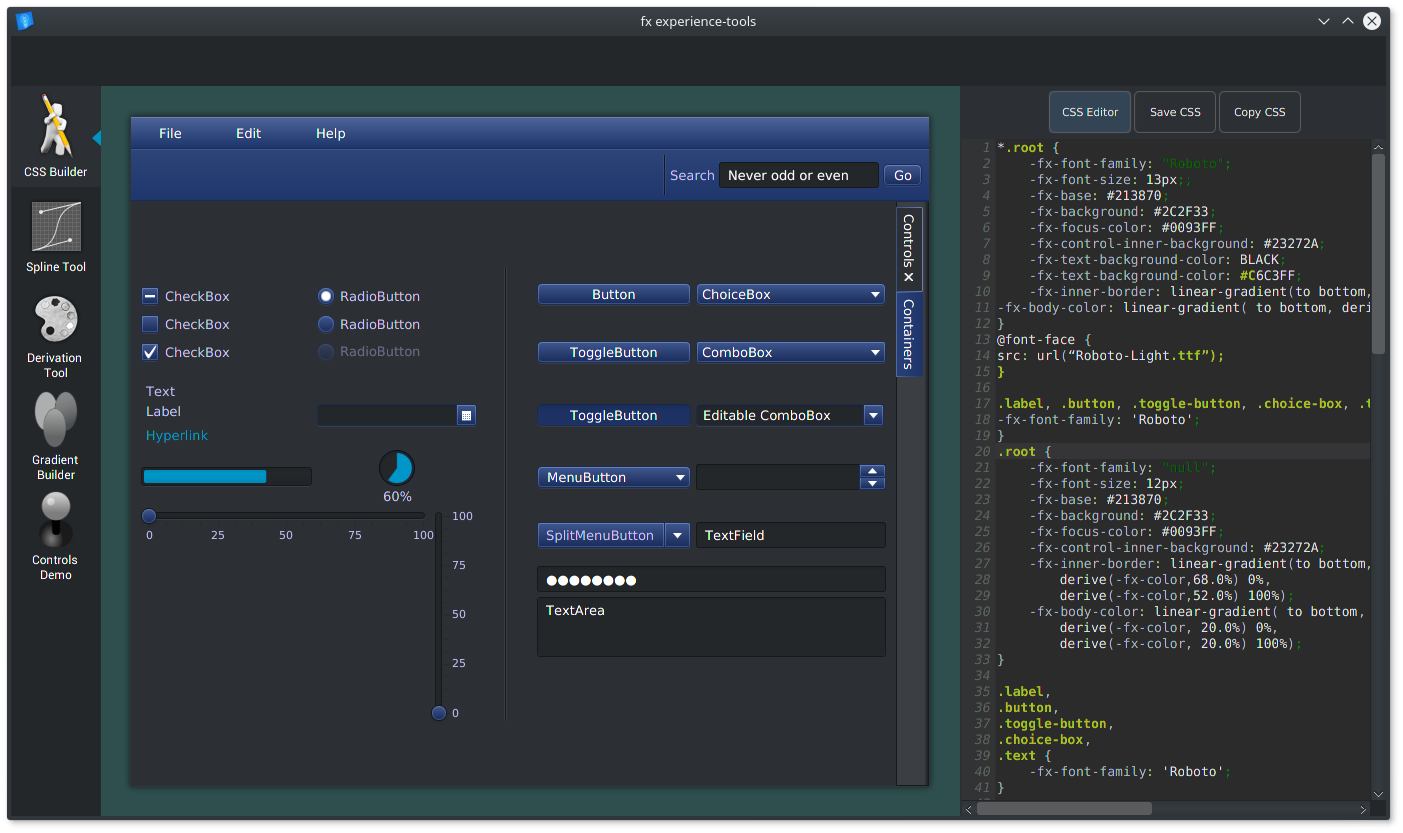
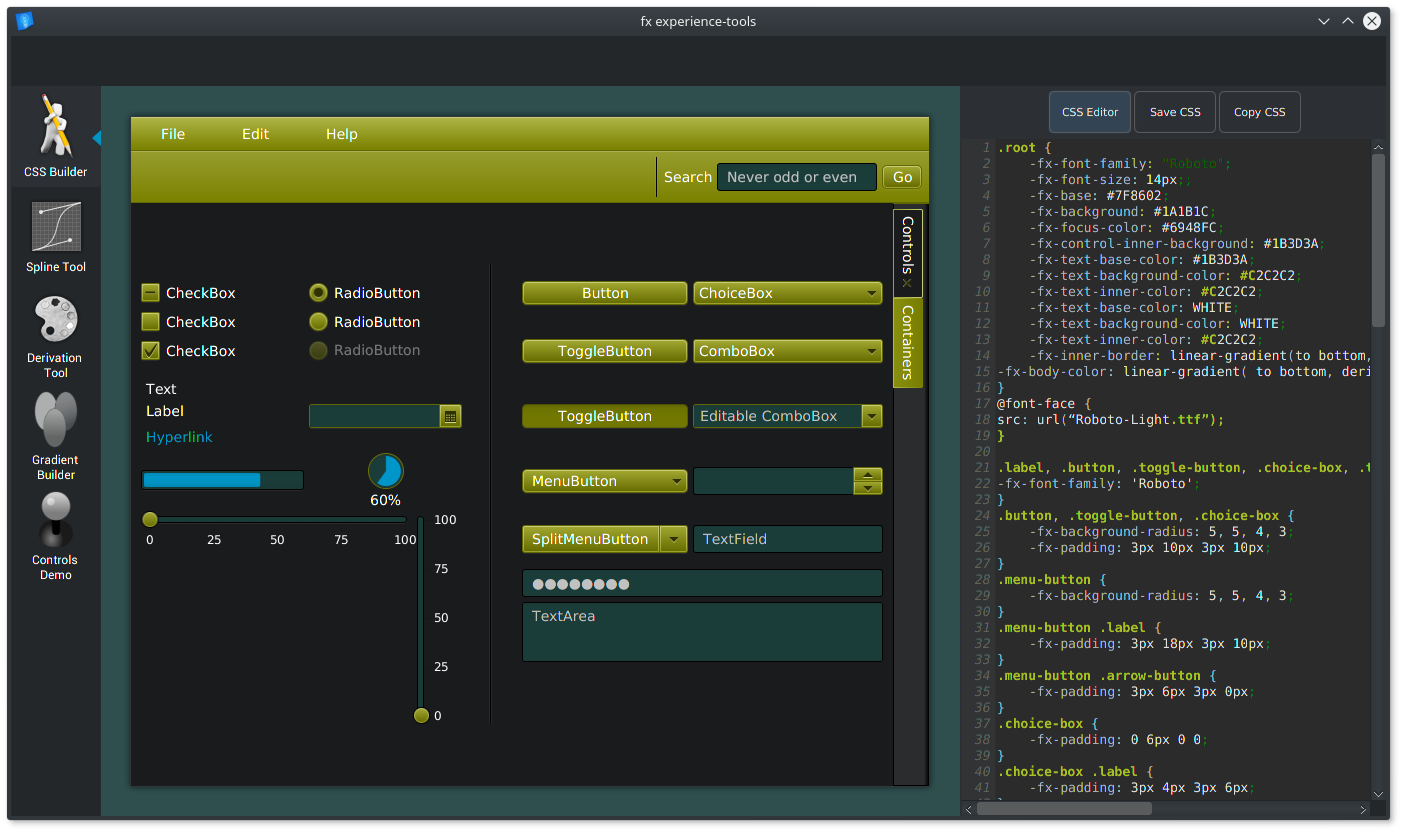
update editor text

diff --git a/FXExperienceTools/src/main/java/com/fxexperience/tools/controller/StyleController.java b/FXExperienceTools/src/main/java/com/fxexperience/tools/controller/StyleController.java
@@ -91,8 +91,6 @@ public class StyleController extends VBox {
     private final ColorPopupEditor fieldBackgroundPicker = new ColorPopupEditor(Mode.SINGLE, Color.web("#23272a"));
     private final ColorPopupEditor fieldTextPicker = new ColorPopupEditor(Mode.SINGLE, Color.web("#000000"));
 
-    private String[] styleCode = CSSBaseStyle.getCodeArray();
-
     public StyleController() {
         initialize();
     }
@@ -285,7 +283,7 @@ public class StyleController extends VBox {
 
             String fontSize = fontSizeBox.getValue() + fontRadioGroup.getSelectedToggle().getUserData();
 
-            sbRoot.append("*.root {\n");
+            sbRoot.append(".root {\n");
             //cssBuffer.append(StringUtil.padWithSpaces("-fx-font-family: " + fontSizeSlider.getValue() + "px " + "\"" + fontChoiceBox.getValue() + "\";", true, 4));
             sbRoot.append(StringUtil.padWithSpaces("-fx-font-family: \"" + fontChoice.getValue() + "\";", true, 4));
             sbRoot.append(StringUtil.padWithSpaces("-fx-font-size: " + fontSize+ ";", true, 4));
@@ -507,7 +505,7 @@ public class StyleController extends VBox {
     }
 
     public String getCodeString() {
-     return sbRoot.toString();
+     return sbRoot.toString() + sbBody.toString() ;
     }
 
     private void setCodeAreaText() {

diff --git a/FXExperienceTools/src/main/java/com/fxexperience/tools/ui/CSSCodeArea.java b/FXExperienceTools/src/main/java/com/fxexperience/tools/ui/CSSCodeArea.java
@@ -14,6 +14,6 @@ public class CSSCodeArea extends CodeArea {
         richChanges()
                 .filter(ch -> !ch.getInserted().equals(ch.getRemoved())) // XXX
                 .subscribe(change -> this.setStyleSpans(0, CSSHighlight.computeHighlighting(this.getText())));
-        replaceText(0, 0, CSSBaseStyle.getCodeString());
+        //replaceText(0, 0, CSSBaseStyle.getCodeString());
     }
 }
